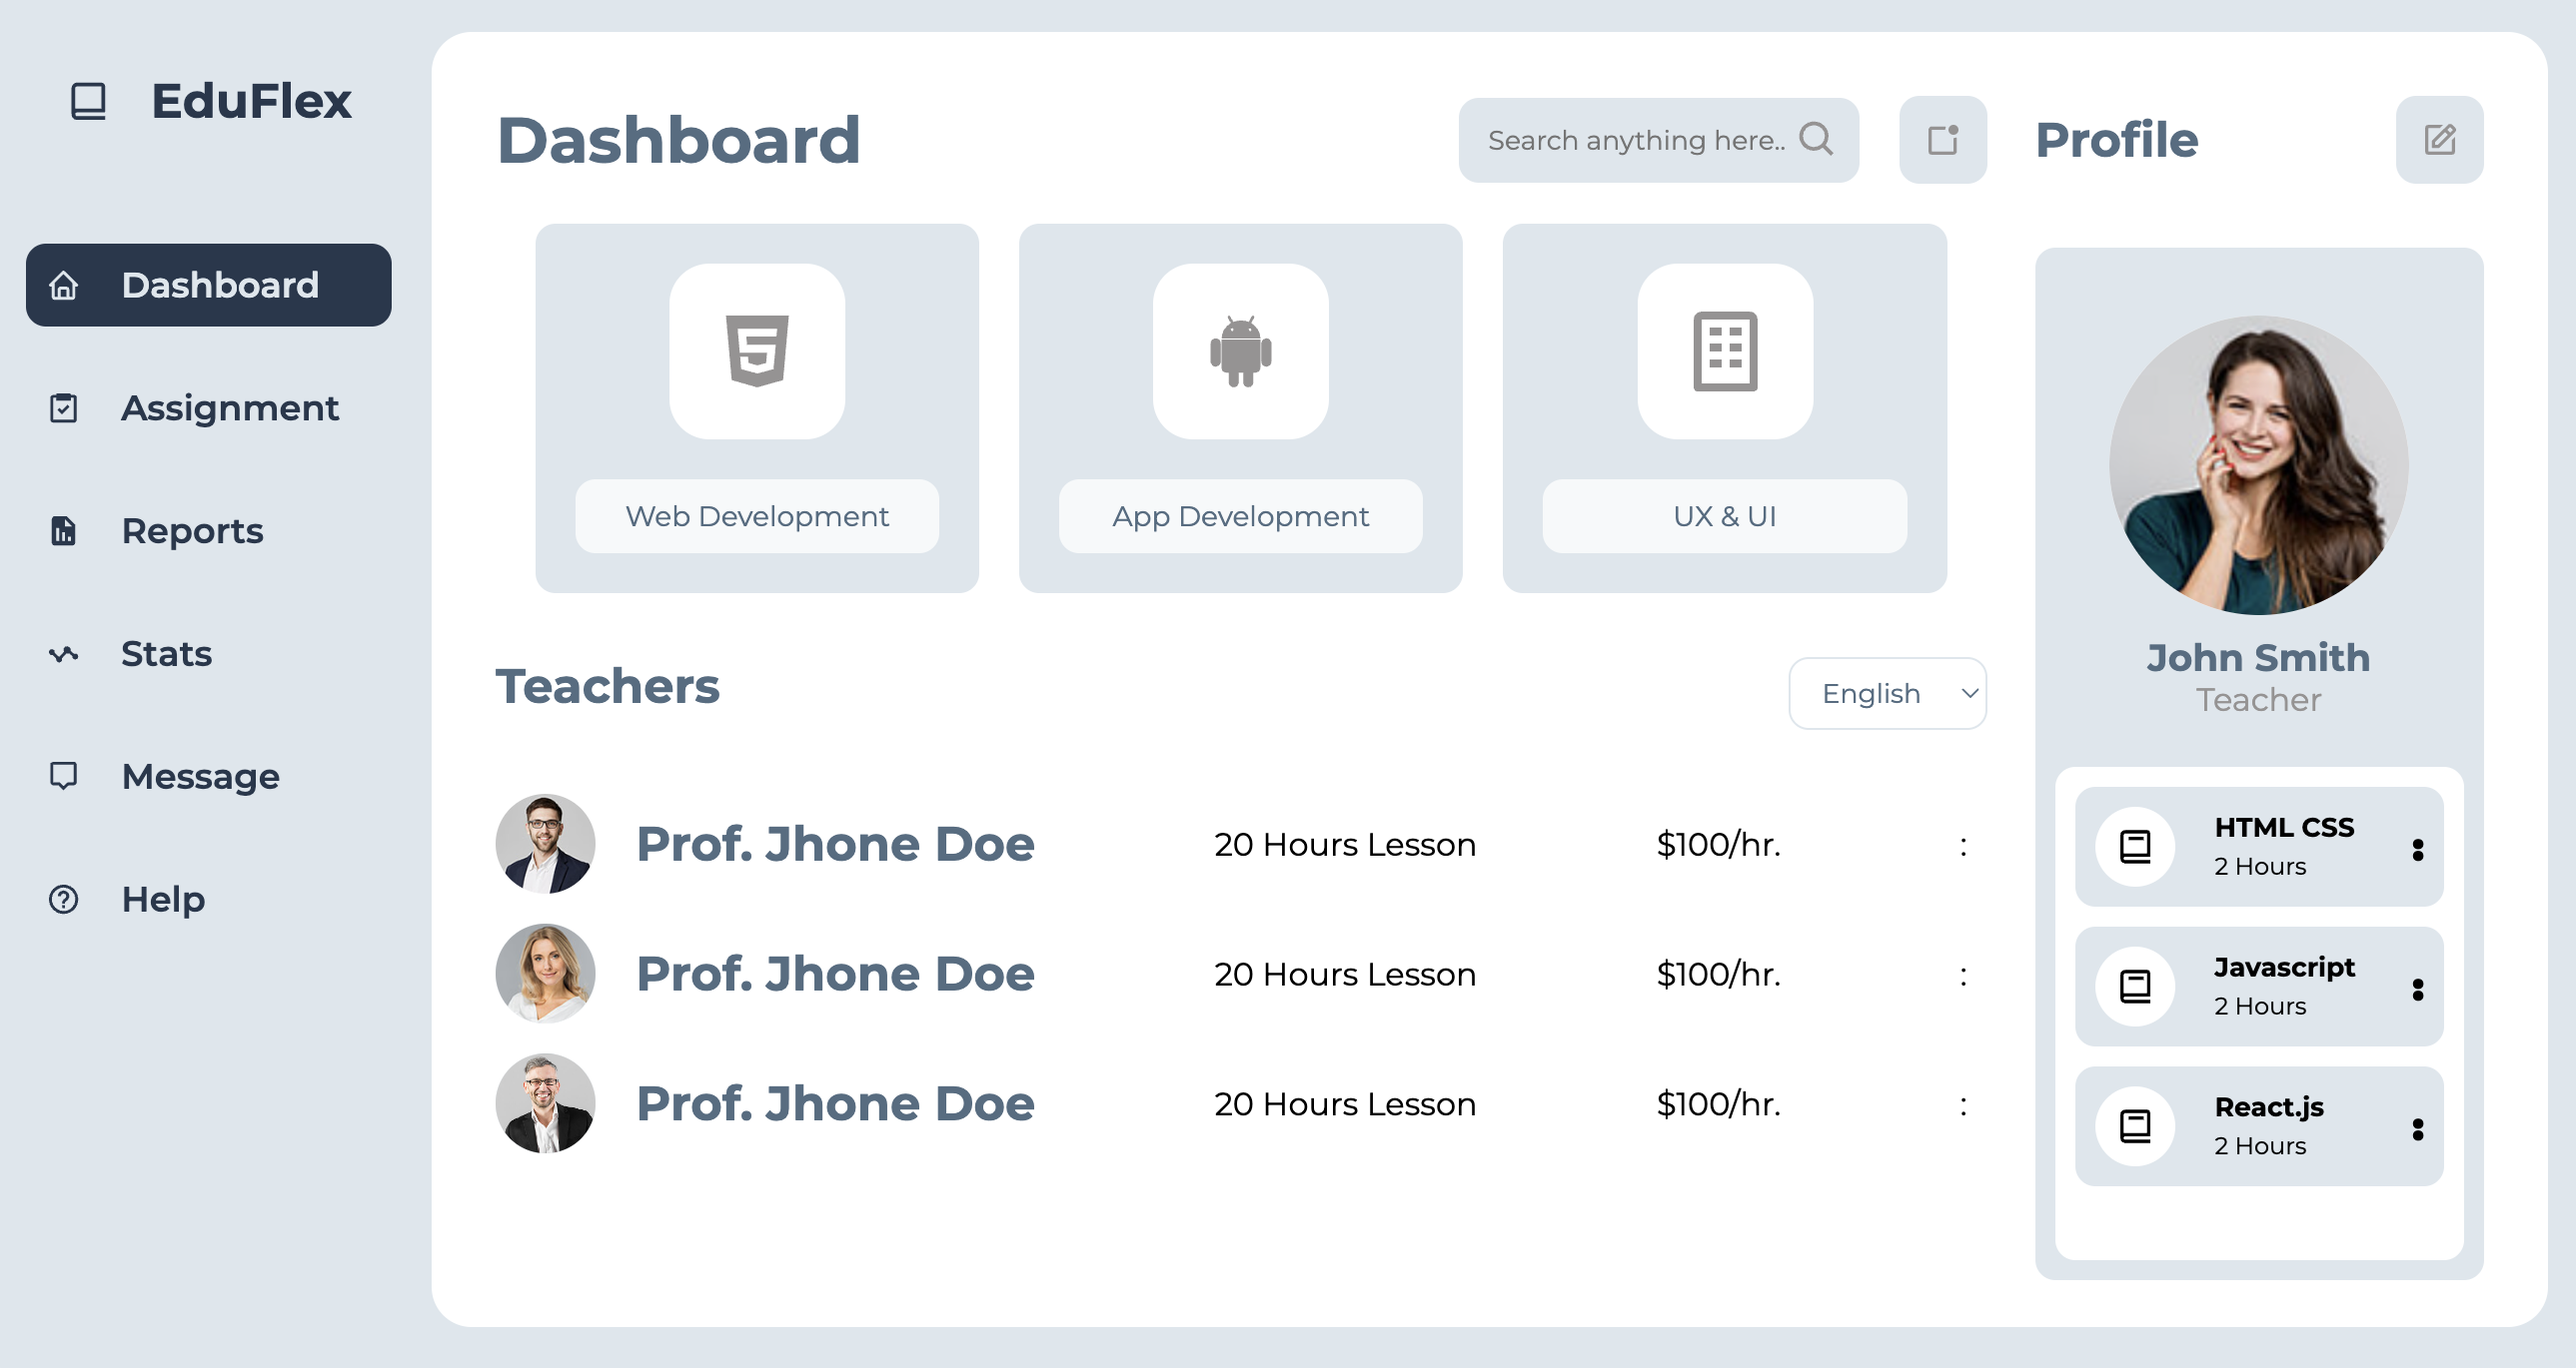
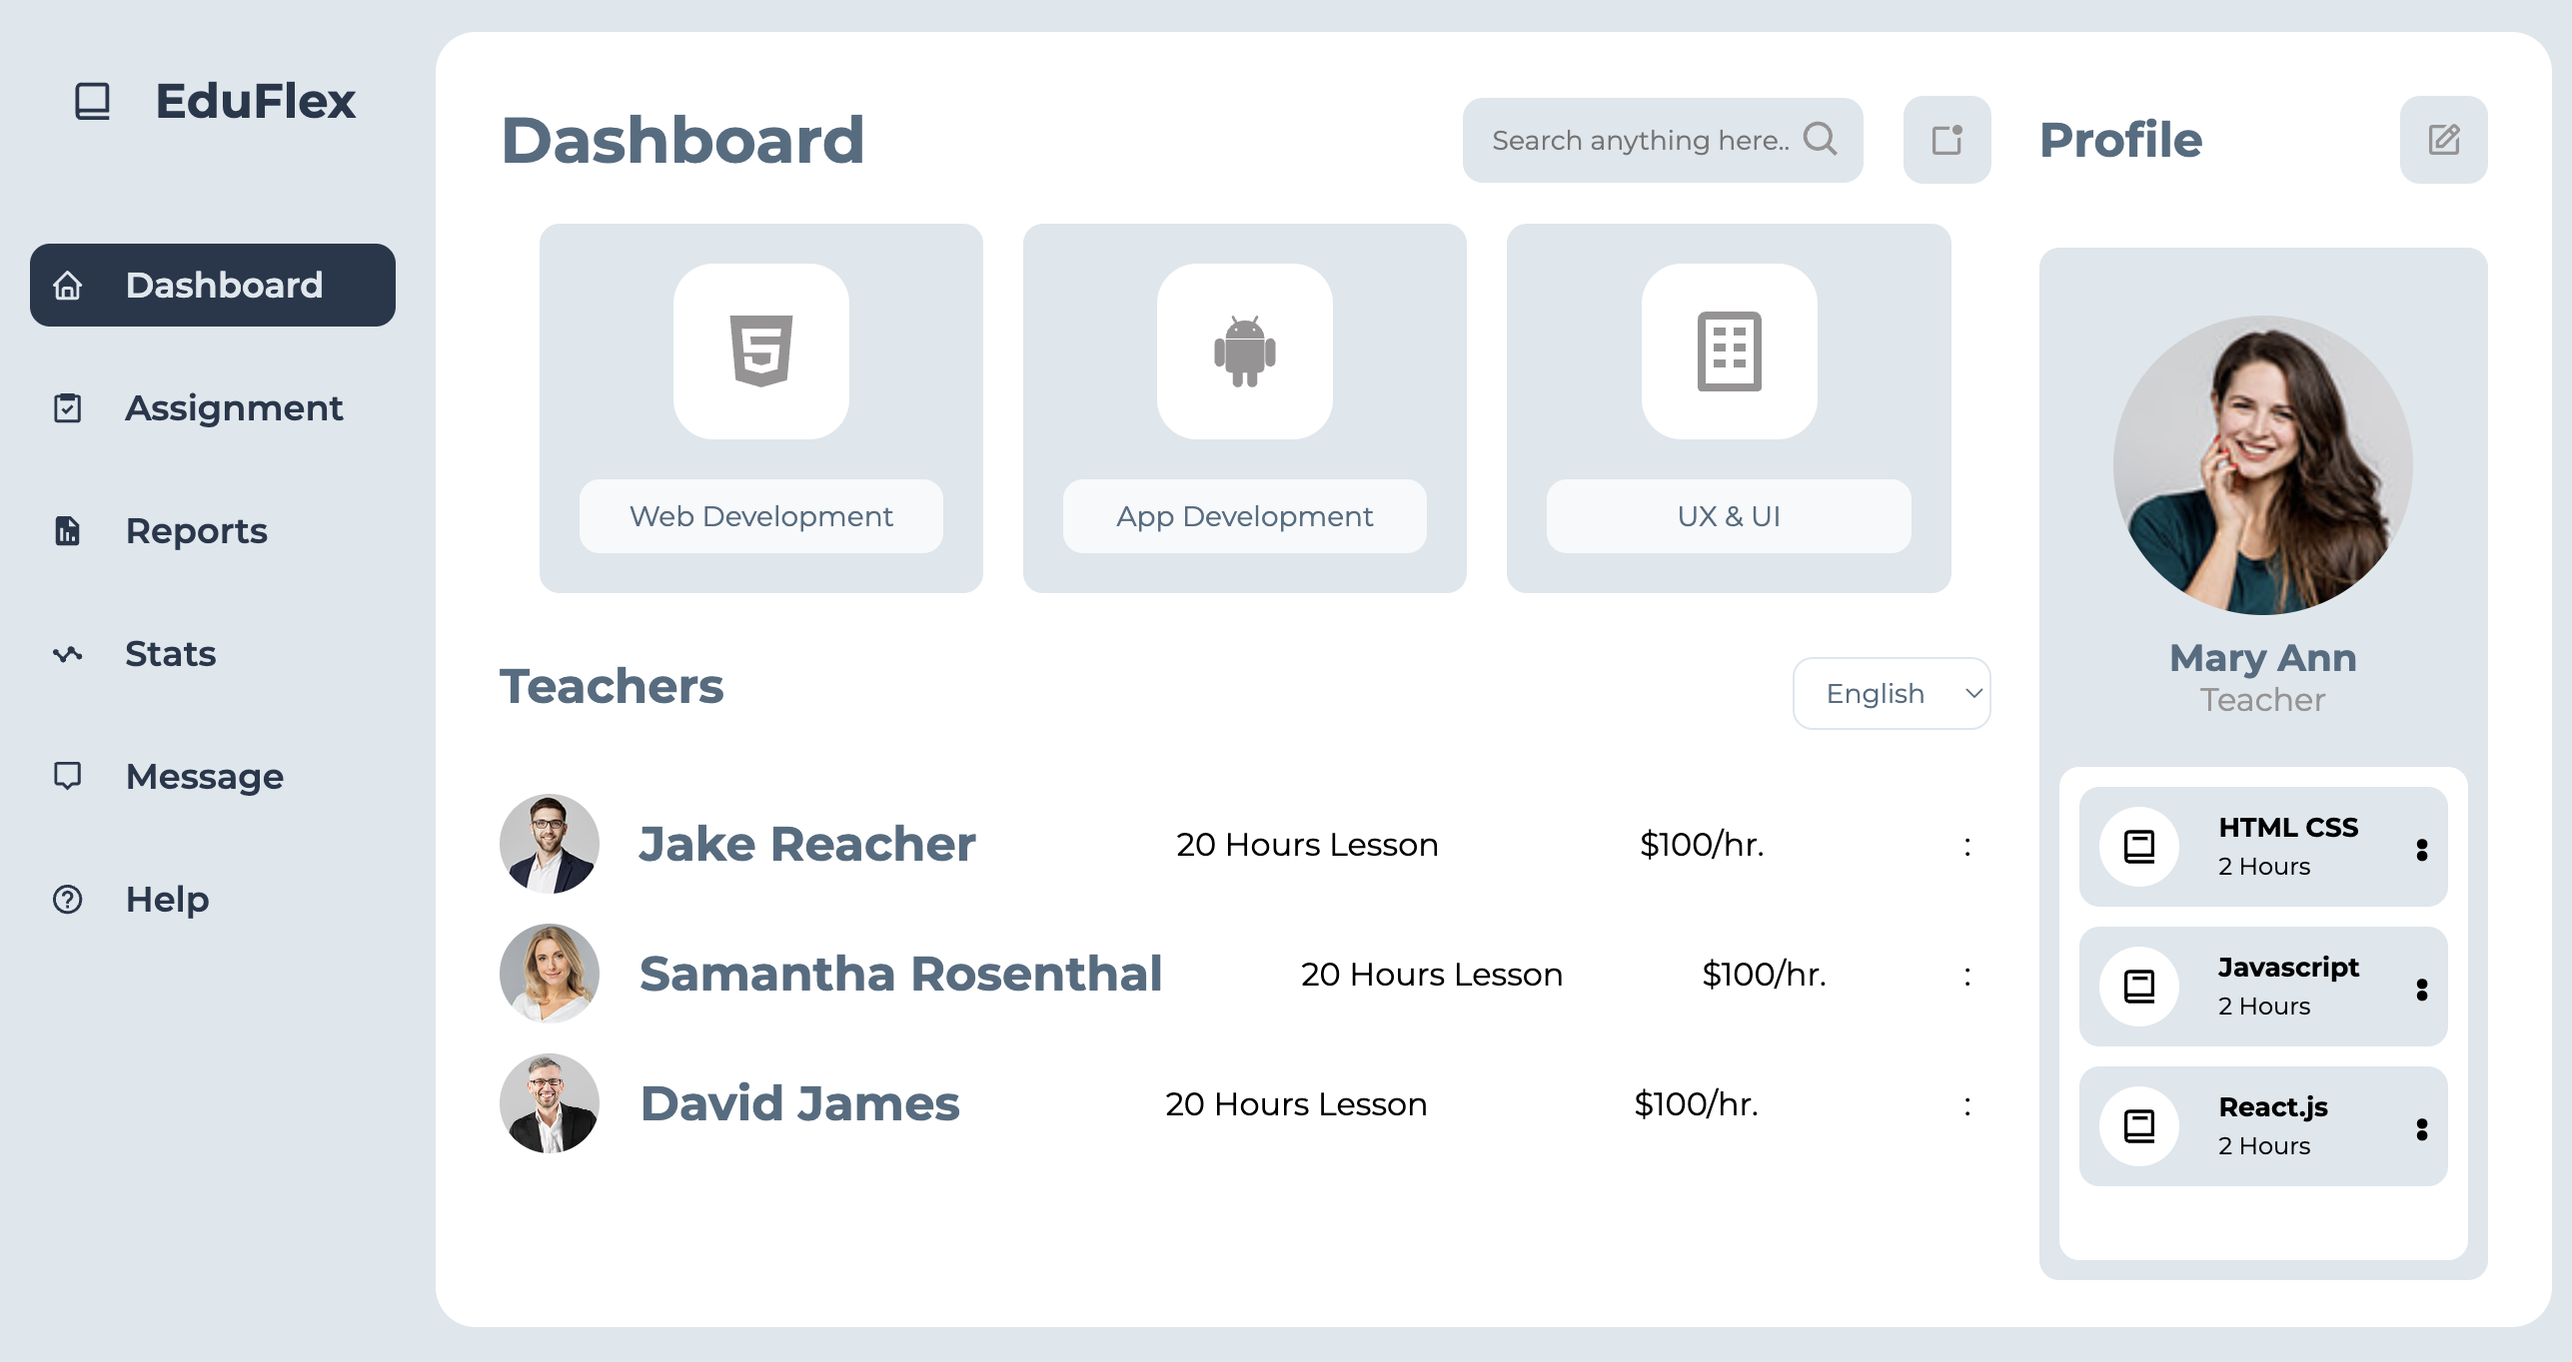
modified the names of professors and updated screenshot

diff --git a/src/components/TeacherList/TeacherList.jsx b/src/components/TeacherList/TeacherList.jsx
@@ -7,19 +7,19 @@ import Teacher3 from '../../assets/images/teacher3.jpg';
 const teachers = [
     {
         image: Image1,
-        name: 'Prof. Jhone Doe',
+        name: 'Jake Reacher',
         duration: '20 Hours Lesson',
         cost: '100'
     },
     {
       image: Teacher2,
-      name: 'Prof. Jhone Doe',
+      name: 'Samantha Rosenthal',
       duration: '20 Hours Lesson',
       cost: '100'
   },
   {
     image: Teacher3,
-    name: 'Prof. Jhone Doe',
+    name: 'David James',
     duration: '20 Hours Lesson',
     cost: '100'
   }

diff --git a/src/components/Profile/Profile.jsx b/src/components/Profile/Profile.jsx
@@ -29,7 +29,7 @@ const Profile = () => {
       <div className="user--profile">
         <div className="user--detail">
           <img src={userImage} alt="" />
-          <h3 className="username">John Smith</h3>
+          <h3 className="username">Mary Ann</h3>
           <span className="profession">Teacher</span>
         </div>
 
